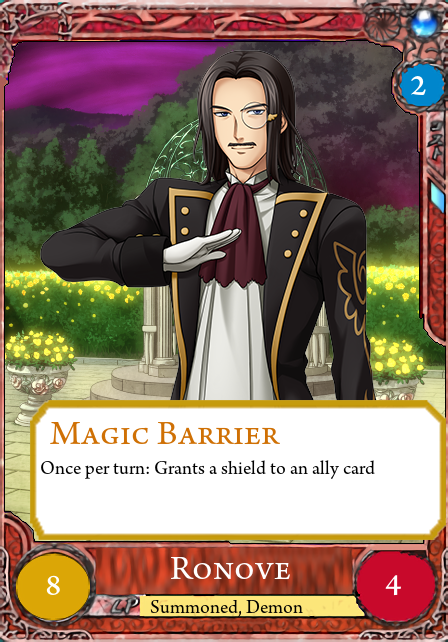
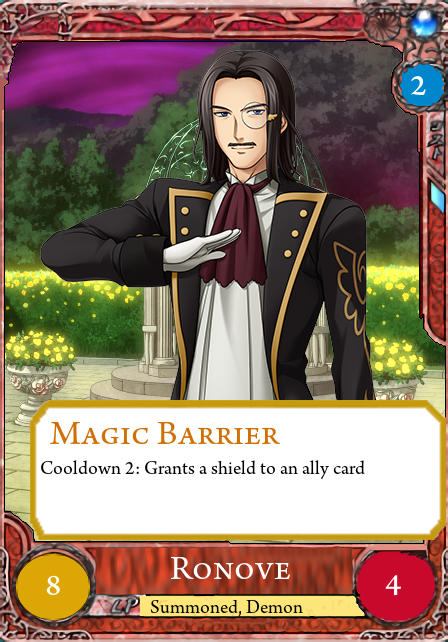
Cooldown fix

Changed region(s): [[0.0938, 0.7165, 0.8438, 0.7477]]

diff --git a/Assets/Scripts/Deck.cs b/Assets/Scripts/Deck.cs
@@ -102,8 +102,8 @@ public class Deck
         Card gaap = new Card(2, 4, 4, CardEffects.GaapEffect, "Gaap", new List<TagType> { TagType.Summoned, TagType.Demon }, true, false, 0);
         AddCardRegister(gaap);
         EffectListener.INSTANCE.CanAttackFromAnywhereList.Add(gaap);
-        AddCardRegister(new Card(2, 8, 4, CardEffects.RonoveEffect, "Ronove", new List<TagType> { TagType.Summoned, TagType.Demon }, false, true, 1, TagType.All, TargetType.Ally));
-        AddCardRegister(new Card(3, 12, 6, CardEffects.VirgiliaEffect, "Virgilia", new List<TagType> { TagType.Witch }, false, false, 1));
+        AddCardRegister(new Card(2, 8, 4, CardEffects.RonoveEffect, "Ronove", new List<TagType> { TagType.Summoned, TagType.Demon }, false, true, 2, TagType.All, TargetType.Ally));
+        AddCardRegister(new Card(3, 12, 6, CardEffects.VirgiliaEffect, "Virgilia", new List<TagType> { TagType.Witch }, false, false, 3));
     }
 
     public void Lambda()

diff --git a/Assets/Scripts/CardZoom.cs b/Assets/Scripts/CardZoom.cs
@@ -84,7 +84,7 @@ public class CardZoom : MonoBehaviour, IPointerEnterHandler, IPointerExitHandler
                     }
                     if (!cardObject.usedEffect && (GameStart.INSTANCE.GameState == GameStart.State.Moving || GameStart.INSTANCE.GameState == GameStart.State.Summoning))
                     {
-                        if (cardObject.card.Cooldown == 0 || cardObject.TurnEffectWasUsedOn == 0 || (cardObject.TurnEffectWasUsedOn != 0 && (cardObject.card.Cooldown + cardObject.TurnEffectWasUsedOn <= GameStart.INSTANCE.Turn)))
+                        if (cardObject.card.Cooldown == 0 || cardObject.TurnEffectWasUsedOn < 0 || (cardObject.card.Cooldown + cardObject.TurnEffectWasUsedOn <= GameStart.INSTANCE.Turn))
                         {
                             if (!cardObject.card.UsesTarget)
                             {

diff --git a/Assets/Scripts/CardObject.cs b/Assets/Scripts/CardObject.cs
@@ -9,7 +9,7 @@ public class CardObject
     public CardObject(GameObject gameObject)
     {
         GameObject = gameObject;
-        TurnEffectWasUsedOn = 0;
+        TurnEffectWasUsedOn = -1;
     }
 
     public Card card { get; set; }
